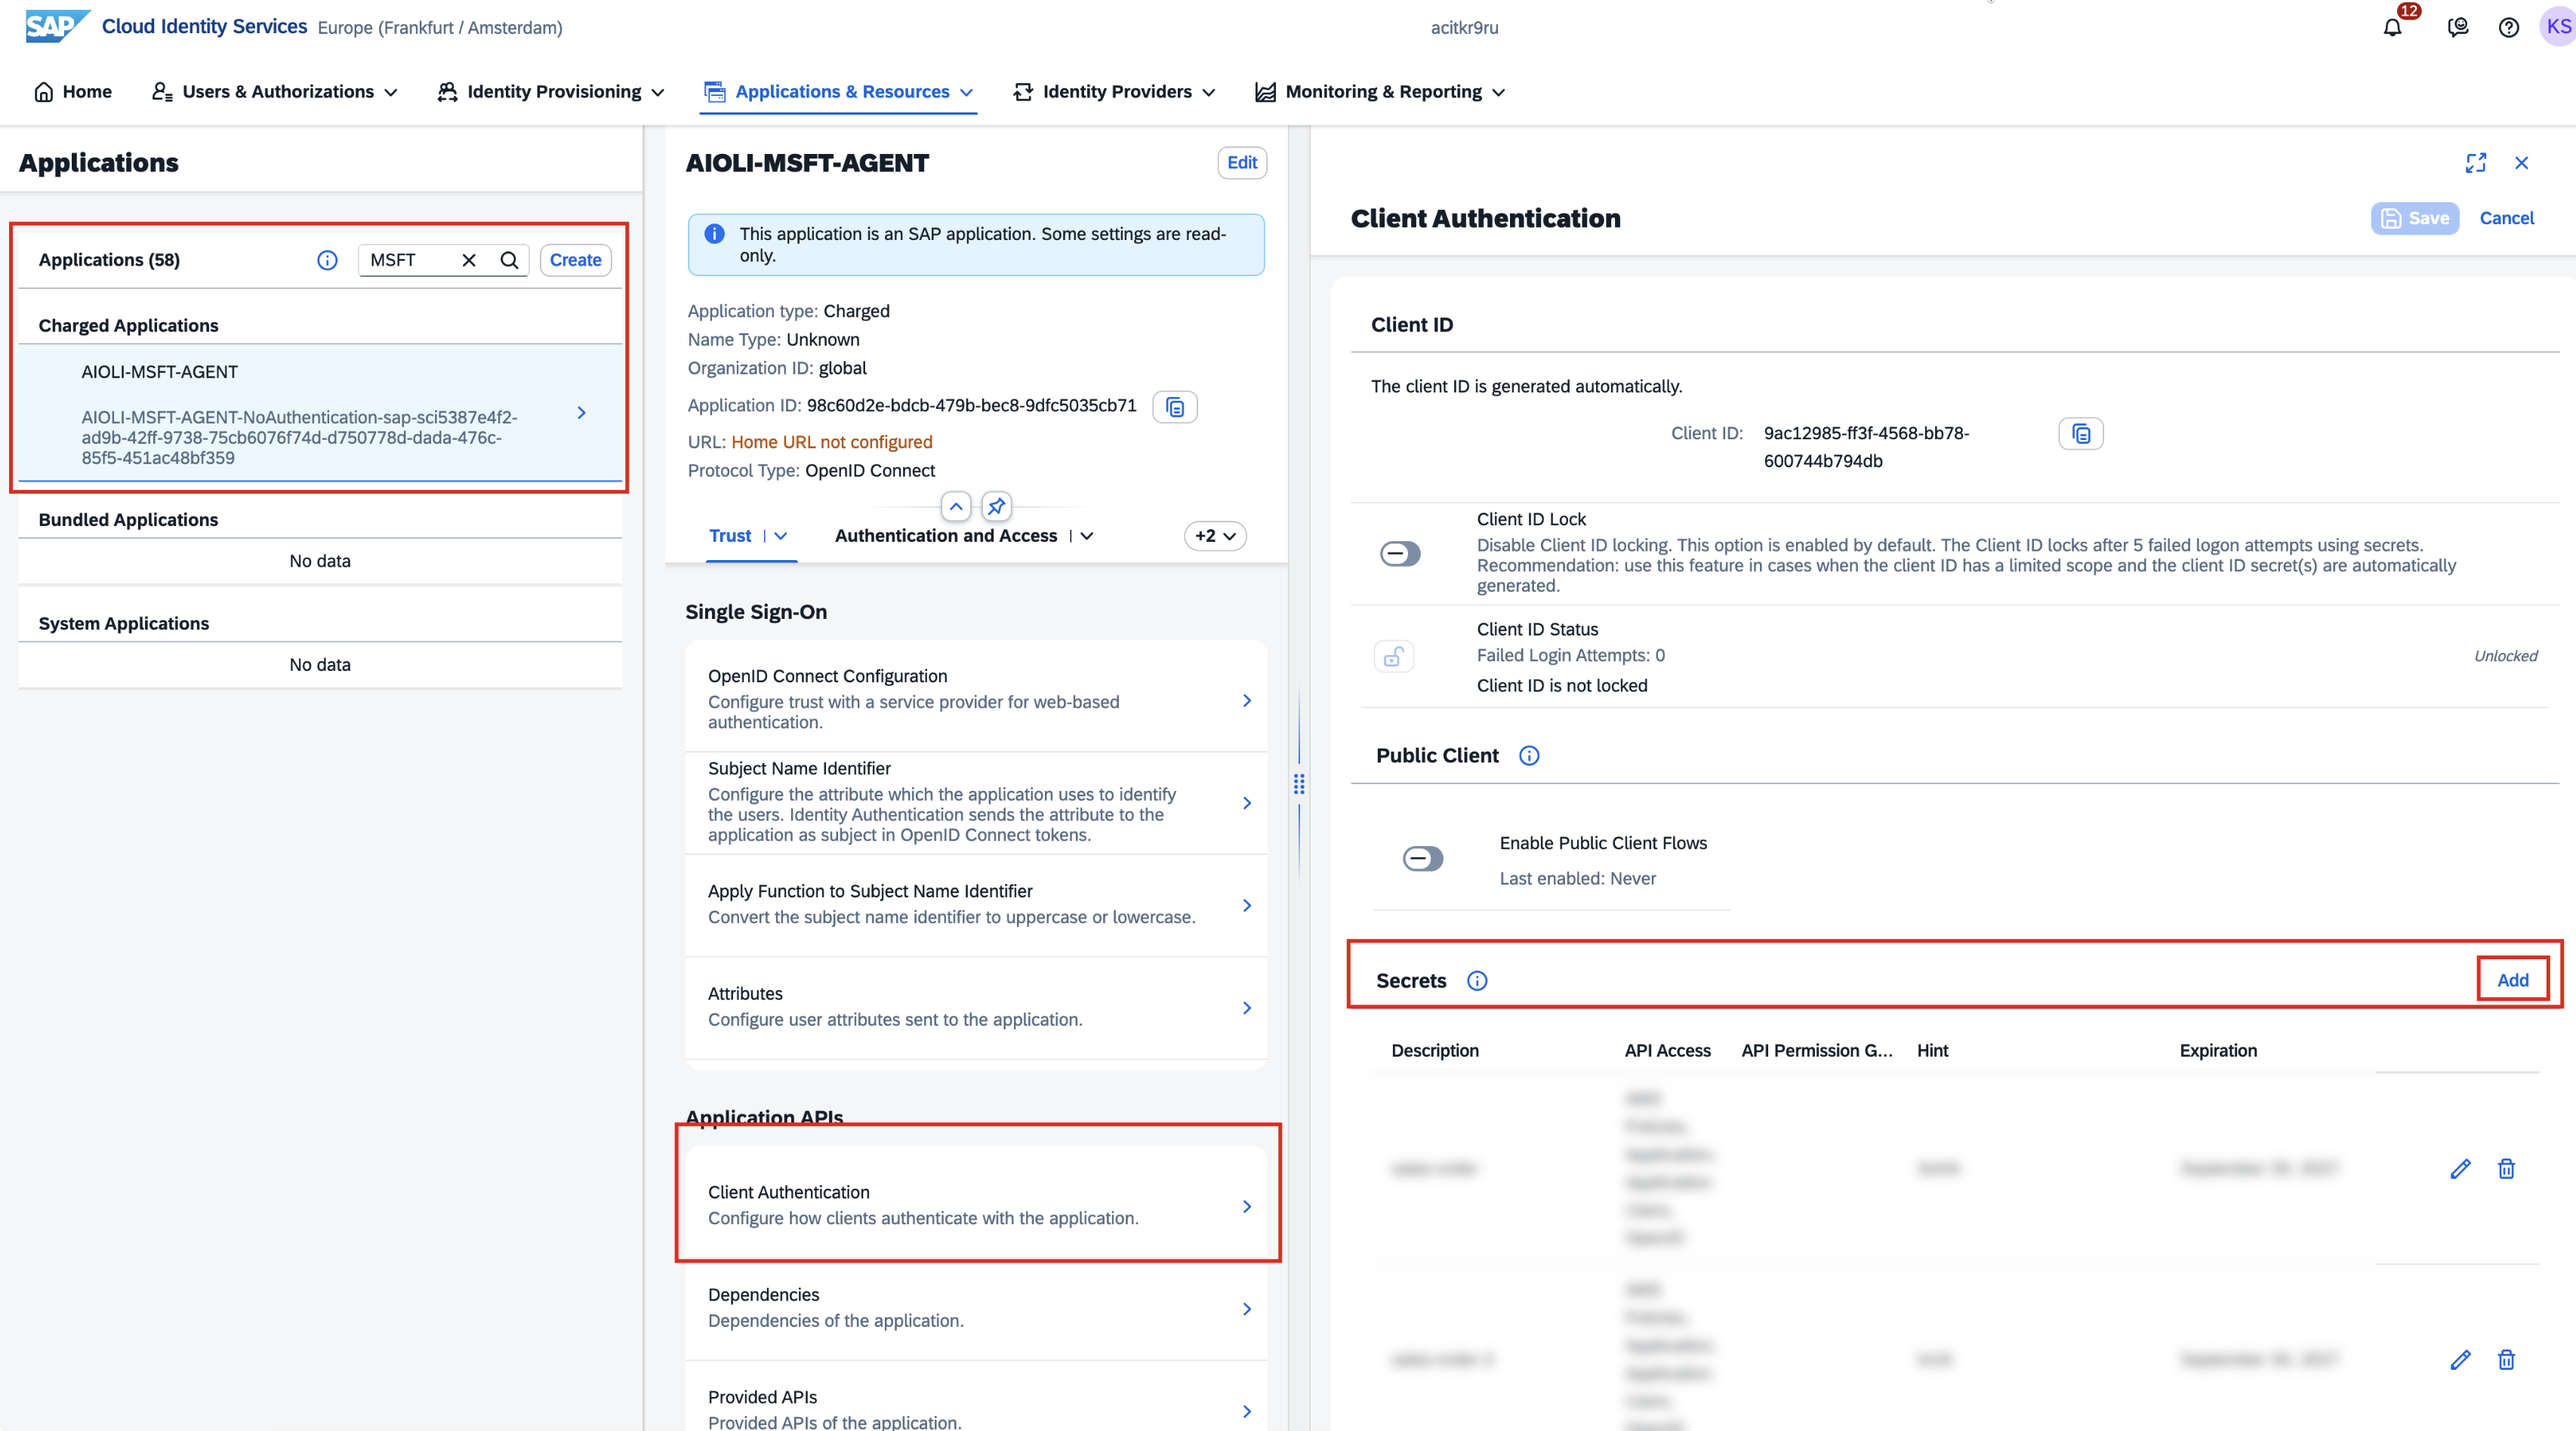
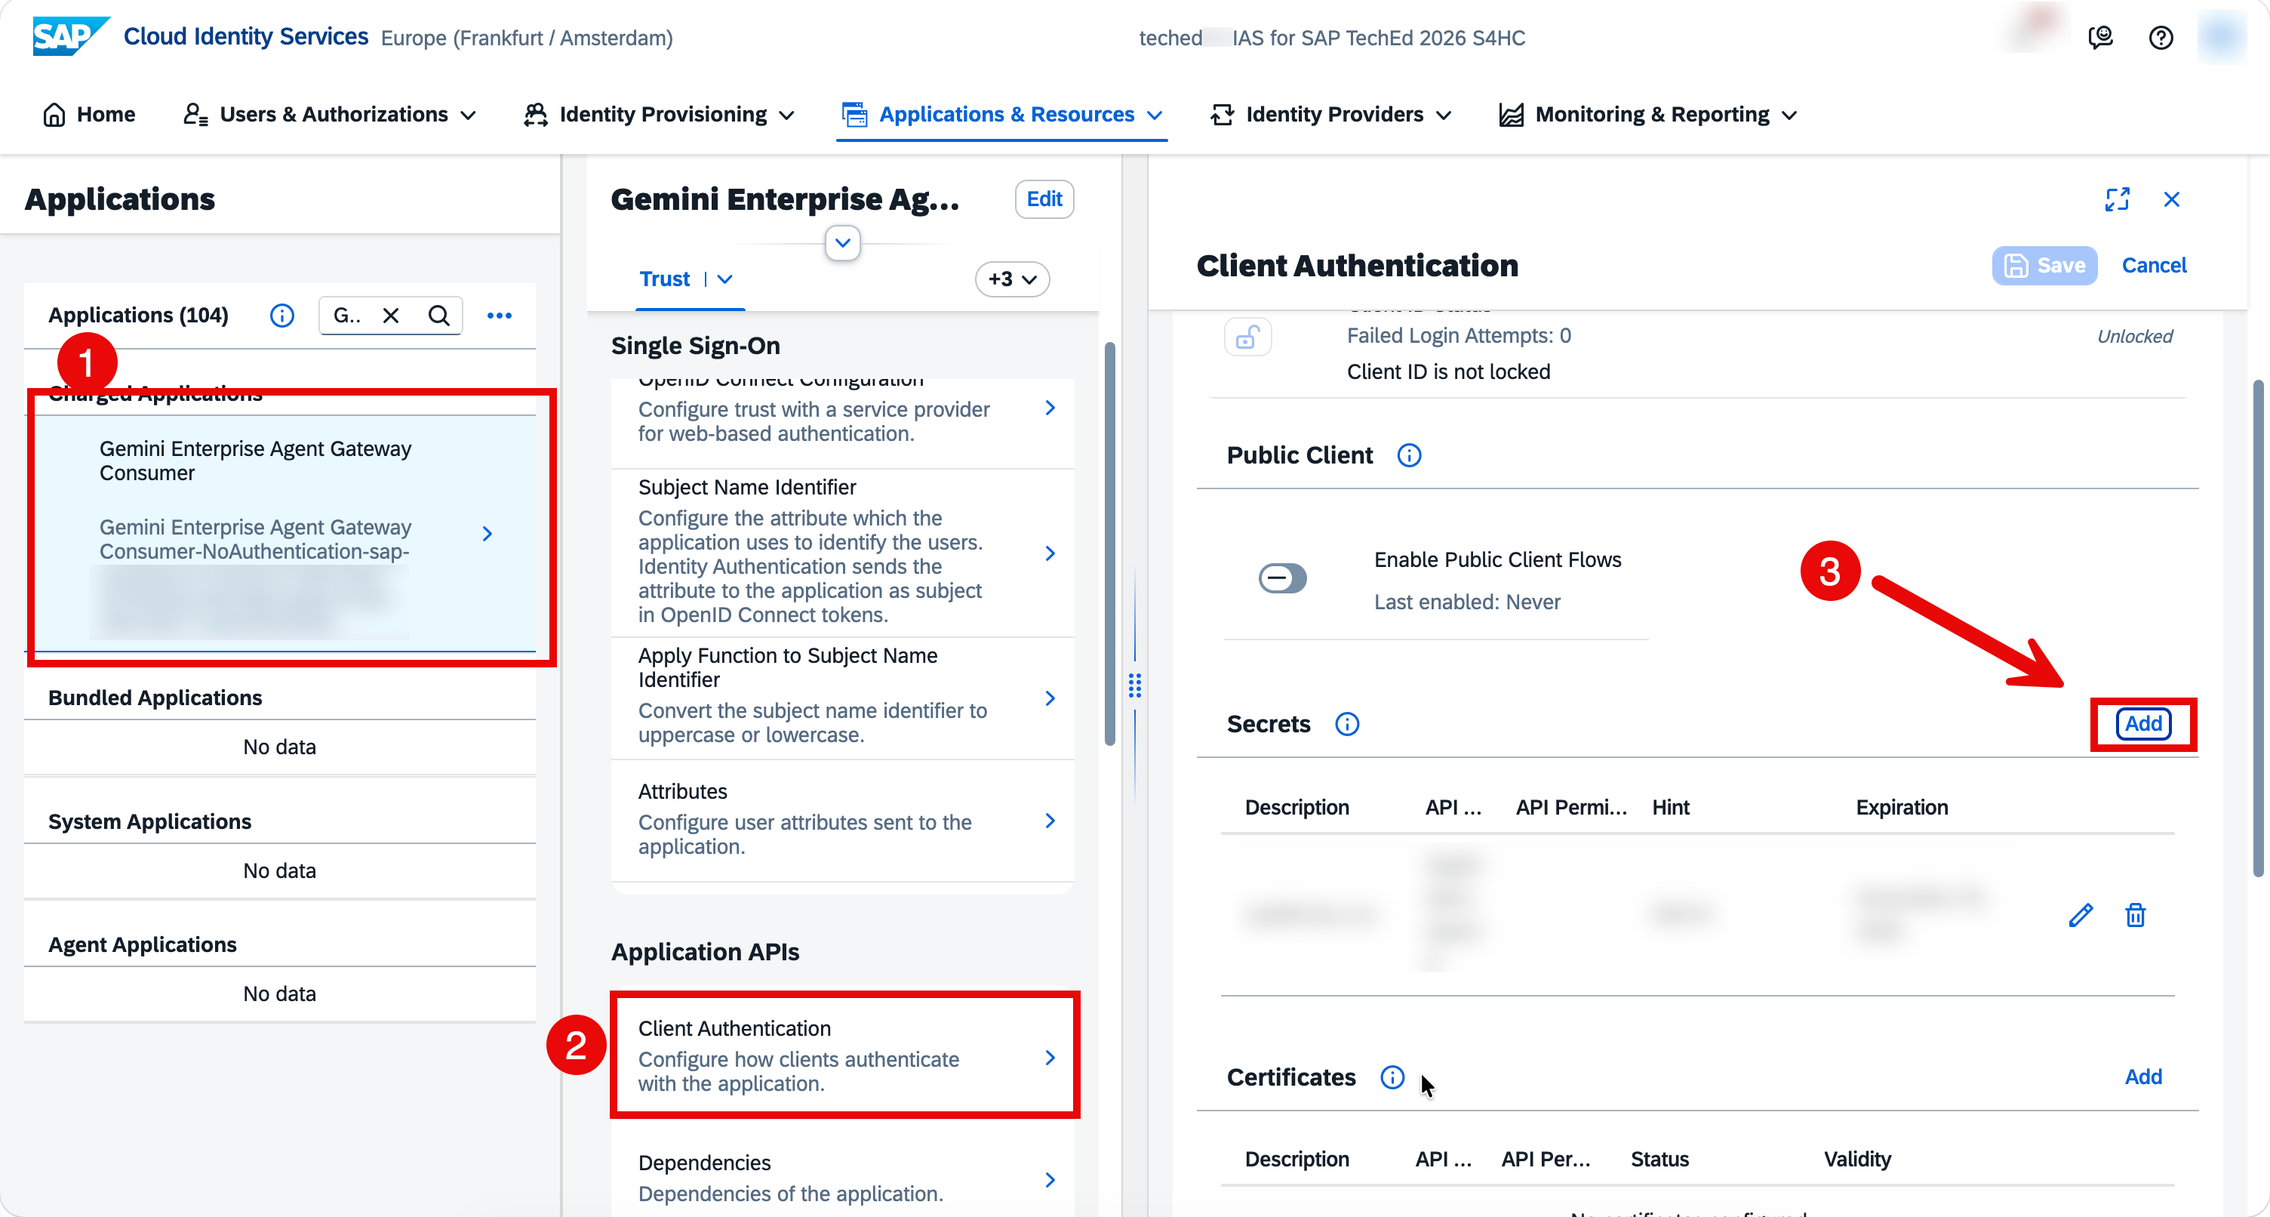
new screenshots

diff --git a/exercises/ex2/README.md b/exercises/ex2/README.md
@@ -47,8 +47,8 @@ Three formations must be assigned in order. Each formation produces a configurat
 ![](./images//sap4me-7.jpg)
 
 1. Navigate to the **Formations** tab.
-2. Find the formation of type **Integration with SAP Cloud Identity Services** (e.g. `sap-sci<your-formation-id>`). Click **Include Systems**.
-3. Select your `XP268-AGW-Consumer` system and click **Next Step**.
+2. Find the formation of type **Integration with SAP Cloud Identity Services**. Click **Include Systems**.
+3. Select your `Gemini Enterprise Agent Gateway Consumer` system and click **Next Step**.
 4. Review the selected system and click **Include**.
 
 > **Result:** A single-tenant OIDC application representing your system is created in SAP Cloud Identity Services, establishing the agent's identity.
@@ -60,26 +60,22 @@ Three formations must be assigned in order. Each formation produces a configurat
 **Formation 2: Integration with Agent Gateway for Third Party**
 
 1. Click **Create Formation**.
-2. Enter a **Formation Name** (e.g. `XP268-Agent-Gateway-Integration`), set **Formation Type** to **Integration with Agent Gateway for Third Party**, and click **Next Step**.
-3. Select the **Agent Gateway** system and click **Next Step**.
-4. Select your `XP268-AGW-Consumer` system (System Type: Agent Gateway Consumer) and click **Next Step**.
-5. Select the **SAP Cloud Identity** system.
-6. Click **Next Step**, review and **Create**.
+2. Enter a **Formation Name** (e.g. `Agent Gateway for Third Party`), set **Formation Type** to **Integration with Agent Gateway for Third Party**, and click **Next Step**.
+3. Select the **Agent Gateway** system, **SAP Cloud Identity** system and your `Gemini Enterprise Agent Gateway Consumer` system (System Type: Agent Gateway Consumer) and click **Next Step**.
+4. Review and **Create**.
 
 > **Result:** The dependency between the agent's identity and the agent gateway is established, enabling your system to call SAP agents through the agent gateway.
 
 ![](./images//sap4me-5.jpg)
 ![](./images//sap4me-6.jpg)
-![](./images//sap4me-7.jpg)
 
 **Formation 3: Integration with Agent Gateway Consumer**
 
 1. Click **Create Formation**.
-2. Enter a **Formation Name** (e.g. `XP268-Agent-Integration`), set **Formation Type** to **Integration with Agent Gateway Consumer**, and click **Next Step**.
-3. Select the **Agent Gateway** system.
-4. Select your `XP268-AGW-Consumer` system (System Type: Agent Gateway Consumer).
-5. Select the SAP agents and/or assistants you want your system to be able to invoke.
-6. Click **Next Step**, review and **Create**.
+2. Enter a **Formation Name** (e.g. `Gemini Enterprise Agent Gateway Consumer`), set **Formation Type** to **Integration with Agent Gateway Consumer**, and click **Next Step**.
+3. Select the **Agent Gateway** system and your `Gemini Enterprise Agent Gateway Consumer` system (System Type: Agent Gateway Consumer).
+4. Select the SAP agents and/or assistants you want your system to be able to invoke.
+5. Click **Next Step**, review and **Create**.
 
 > **Result:** Formation 3 is created with the systems included, establishing the allow list of SAP agents your Agent Gateway Consumer is permitted to invoke.
 
